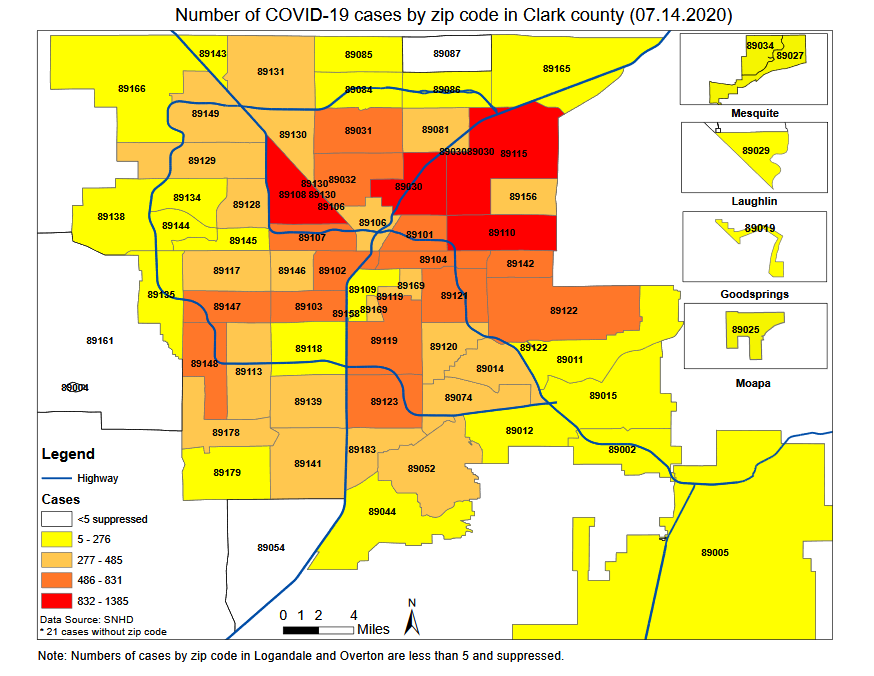
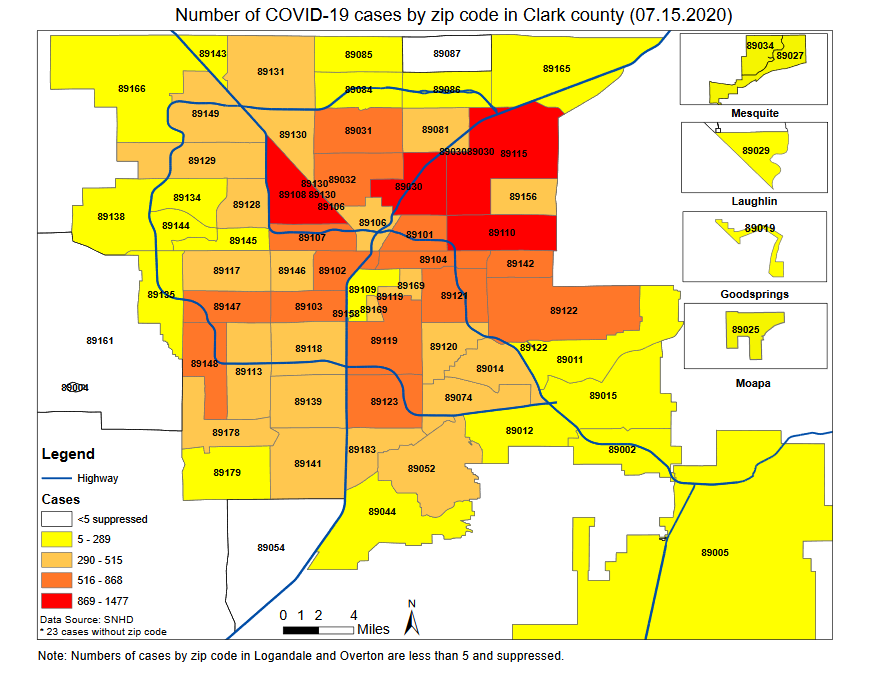
Day 134

diff --git a/src/pages/clarkcounty.js b/src/pages/clarkcounty.js
@@ -149,6 +149,7 @@ class ClarkPage extends Component {
 				'7/12/20',
 				'7/13/20',
 				'7/14/20',
+				'7/15/20',
 			],
 			datasets: [
 				{
@@ -288,6 +289,7 @@ class ClarkPage extends Component {
 						23803,
 						24824,
 						25611,
+						26926,
 					],
 				},
 			],
@@ -428,6 +430,7 @@ class ClarkPage extends Component {
 				'7/12/20',
 				'7/13/20',
 				'7/14/20',
+				'7/15/20',
 			],
 			datasets: [
 				{
@@ -567,6 +570,7 @@ class ClarkPage extends Component {
 						755,
 						1021,
 						787,
+						1315,
 					],
 				},
 			],
@@ -687,6 +691,7 @@ class ClarkPage extends Component {
 				'7/12/20',
 				'7/13/20',
 				'7/14/20',
+				'7/15/20',
 			],
 			datasets: [
 				{
@@ -806,6 +811,7 @@ class ClarkPage extends Component {
 						2266,
 						2305,
 						2351,
+						2383,
 					],
 				},
 			],
@@ -925,6 +931,7 @@ class ClarkPage extends Component {
 				'7/12/20',
 				'7/13/20',
 				'7/14/20',
+				'7/15/20',
 			],
 			datasets: [
 				{
@@ -1044,6 +1051,7 @@ class ClarkPage extends Component {
 						0,
 						39,
 						46,
+						32,
 					],
 				},
 			],
@@ -1184,6 +1192,7 @@ class ClarkPage extends Component {
 				'7/12/20',
 				'7/13/20',
 				'7/14/20',
+				'7/15/20',
 			],
 			datasets: [
 				{
@@ -1322,6 +1331,7 @@ class ClarkPage extends Component {
 						483,
 						498,
 						502,
+						507,
 					],
 					backgroundColor: 'maroon',
 				},
@@ -1451,6 +1461,7 @@ class ClarkPage extends Component {
 				'7/12/20',
 				'7/13/20',
 				'7/14/20',
+				'7/15/20',
 			],
 			datasets: [
 				{
@@ -1578,6 +1589,7 @@ class ClarkPage extends Component {
 						0,
 						15,
 						4,
+						5,
 					],
 				},
 			],
@@ -1718,6 +1730,7 @@ class ClarkPage extends Component {
 				'7/12/20',
 				'7/13/20',
 				'7/14/20',
+				'7/15/20',
 			],
 			datasets: [
 				{
@@ -1842,21 +1855,22 @@ class ClarkPage extends Component {
 						12.0,
 						12.5,
 						12.8,
-						13.3,
-						13.3,
 						13.4,
 						13.4,
-						13.3,
+						13.4,
 						13.5,
-						14.3,
-						14.4,
-						14.4,
-						14.5,
+						13.4,
+						14.6,
+						14.7,
 						14.8,
-						14.9,
+						14.8,
+						15.2,
+						15.3,
+						15.2,
 						15.1,
-						17.8,
-						19.7,
+						16.0,
+						null,
+						null,
 						null,
 					],
 				},
@@ -1933,6 +1947,7 @@ class ClarkPage extends Component {
 						null,
 						null,
 						null,
+						6.9,
 						6.9,
 						6.9,
 						6.9,
@@ -2143,6 +2158,7 @@ class ClarkPage extends Component {
 						3.9,
 						3.9,
 						3.9,
+						3.9,
 					],
 				},
 			],
@@ -2153,7 +2169,7 @@ class ClarkPage extends Component {
 			datasets: [
 				{
 					label: 'Age of Cases',
-					data: [459, 1690, 3148, 12387, 5127, 2777],
+					data: [481, 1798, 3327, 13045, 5375, 2877],
 					backgroundColor: [
 						'rgb(54, 162, 235)', //blue
 						'rgb(255, 99, 132)', //salmon
@@ -2171,7 +2187,7 @@ class ClarkPage extends Component {
 			datasets: [
 				{
 					label: 'Sex',
-					data: [13057, 12331, 223],
+					data: [13706, 12944, 276],
 					backgroundColor: [
 						'rgb(255, 99, 132)',
 						'rgb(54, 162, 235)',
@@ -2213,7 +2229,7 @@ class ClarkPage extends Component {
 											</div>
 										</div>
 										<div className='card-value pt-4'>
-											<h1>25,611</h1>
+											<h1>26,926</h1>
 										</div>
 									</div>
 								</div>
@@ -2225,7 +2241,7 @@ class ClarkPage extends Component {
 											</div>
 										</div>
 										<div className='card-value pt-4'>
-											<h1>2,351</h1>
+											<h1>2,383</h1>
 										</div>
 									</div>
 								</div>
@@ -2237,7 +2253,7 @@ class ClarkPage extends Component {
 											</div>
 										</div>
 										<div className='card-value pt-4'>
-											<h1>68.3%</h1>
+											<h1>68.5%</h1>
 										</div>
 									</div>
 								</div>
@@ -2249,7 +2265,7 @@ class ClarkPage extends Component {
 											</div>
 										</div>
 										<div className='card-value pt-4'>
-											<h1>502</h1>
+											<h1>507</h1>
 										</div>
 									</div>
 								</div>

diff --git a/src/pages/nevada.js b/src/pages/nevada.js
@@ -144,6 +144,7 @@ class NevadaPage extends Component {
 				'7/12/20',
 				'7/13/20',
 				'7/14/20',
+				'7/15/20',
 			],
 			datasets: [
 				{
@@ -282,6 +283,7 @@ class NevadaPage extends Component {
 						28515,
 						29619,
 						30468,
+						31915,
 					],
 					fill: false, // Don't fill area under the line
 					backgroundColor: '#933A16', // Line color
@@ -423,6 +425,7 @@ class NevadaPage extends Component {
 				'7/12/20',
 				'7/13/20',
 				'7/14/20',
+				'7/15/20',
 			],
 			datasets: [
 				{
@@ -562,6 +565,7 @@ class NevadaPage extends Component {
 						832,
 						1104,
 						849,
+						1447,
 					],
 					fill: false, // Don't fill area under the line
 					backgroundColor: '#933A16', // Bar color
@@ -703,6 +707,7 @@ class NevadaPage extends Component {
 				'7/12/20',
 				'7/13/20',
 				'7/14/20',
+				'7/15/20',
 			],
 			datasets: [
 				{
@@ -834,13 +839,14 @@ class NevadaPage extends Component {
 						569,
 						576,
 						585,
-						591,
-						596,
-						605,
-						610,
-						614,
-						617,
-						617,
+						592,
+						597,
+						607,
+						612,
+						616,
+						620,
+						624,
+						625,
 					],
 					backgroundColor: 'maroon',
 				},
@@ -970,6 +976,7 @@ class NevadaPage extends Component {
 				'7/12/20',
 				'7/13/20',
 				'7/14/20',
+				'7/15/20',
 			],
 			datasets: [
 				{
@@ -1090,13 +1097,14 @@ class NevadaPage extends Component {
 						5,
 						7,
 						9,
-						6,
+						7,
 						5,
-						9,
+						10,
 						5,
 						4,
-						3,
-						0,
+						4,
+						4,
+						1,
 					],
 				},
 			],
@@ -1217,6 +1225,7 @@ class NevadaPage extends Component {
 				'7/12/20',
 				'7/13/20',
 				'7/14/20',
+				'7/15/20',
 			],
 			datasets: [
 				{
@@ -1338,6 +1347,7 @@ class NevadaPage extends Component {
 						8.1,
 						8.2,
 						8.4,
+						8.6,
 					],
 				},
 				{
@@ -1459,6 +1469,7 @@ class NevadaPage extends Component {
 						13.6,
 						13.4,
 						15.5,
+						17.7,
 					],
 				},
 				{
@@ -1514,6 +1525,7 @@ class NevadaPage extends Component {
 						null,
 						null,
 						null,
+						10.4,
 						10.4,
 						10.4,
 						10.4,
@@ -1703,6 +1715,7 @@ class NevadaPage extends Component {
 						6.0,
 						6.0,
 						6.0,
+						6.0,
 					],
 				},
 			],
@@ -1738,7 +1751,7 @@ class NevadaPage extends Component {
 										</div>
 									</div>
 									<div className='card-value pt-4'>
-										<h1>363,320</h1>
+										<h1>369,204</h1>
 									</div>
 								</div>
 							</div>
@@ -1750,7 +1763,7 @@ class NevadaPage extends Component {
 										</div>
 									</div>
 									<div className='card-value pt-4'>
-										<h1>333,957</h1>
+										<h1>338,928</h1>
 									</div>
 								</div>
 							</div>
@@ -1762,7 +1775,7 @@ class NevadaPage extends Component {
 										</div>
 									</div>
 									<div className='card-value pt-4'>
-										<h1>30,468</h1>
+										<h1>31,915</h1>
 									</div>
 								</div>
 							</div>
@@ -1774,7 +1787,7 @@ class NevadaPage extends Component {
 										</div>
 									</div>
 									<div className='card-value pt-4'>
-										<h1>617</h1>
+										<h1>625</h1>
 									</div>
 								</div>
 							</div>
